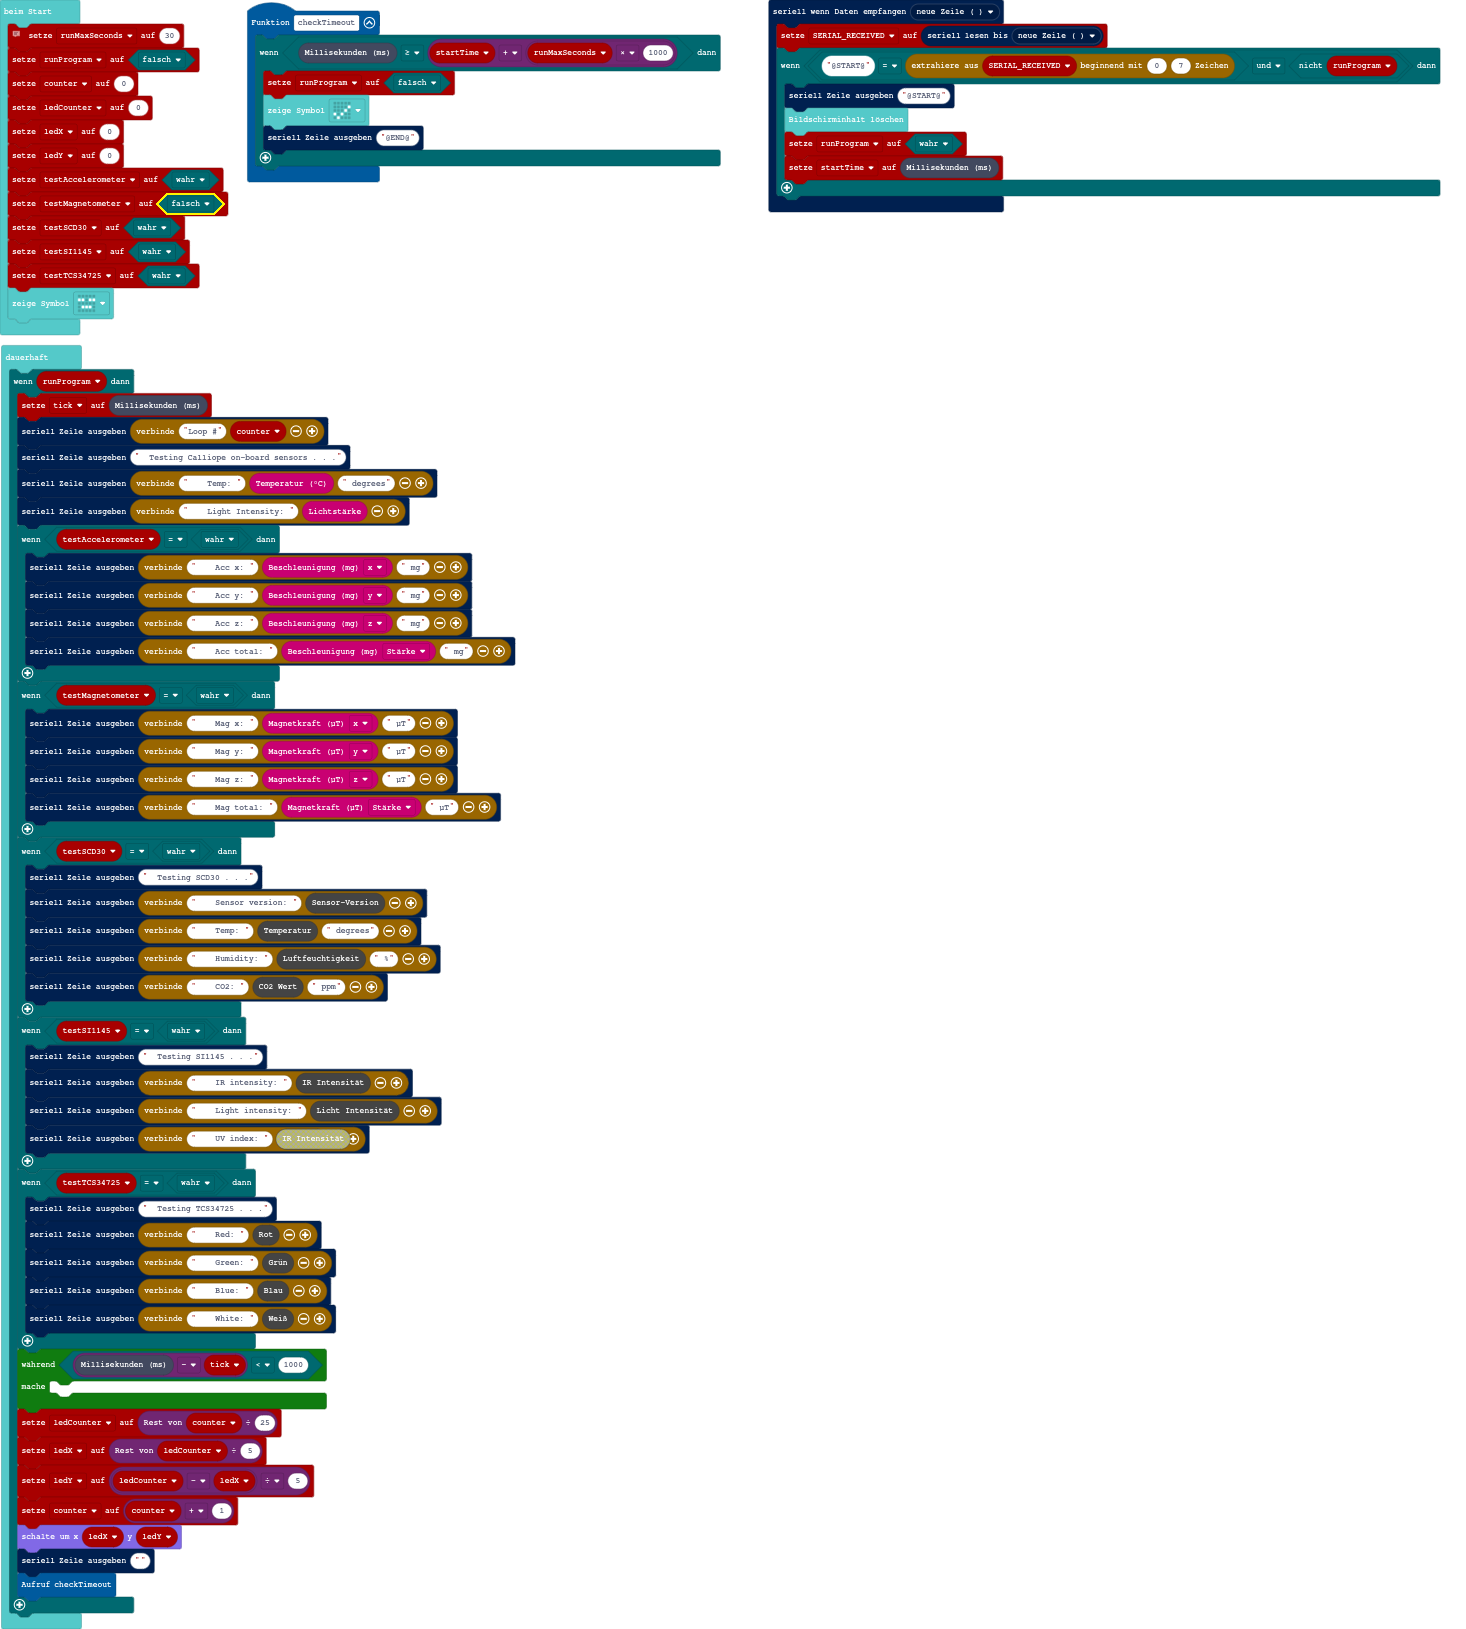
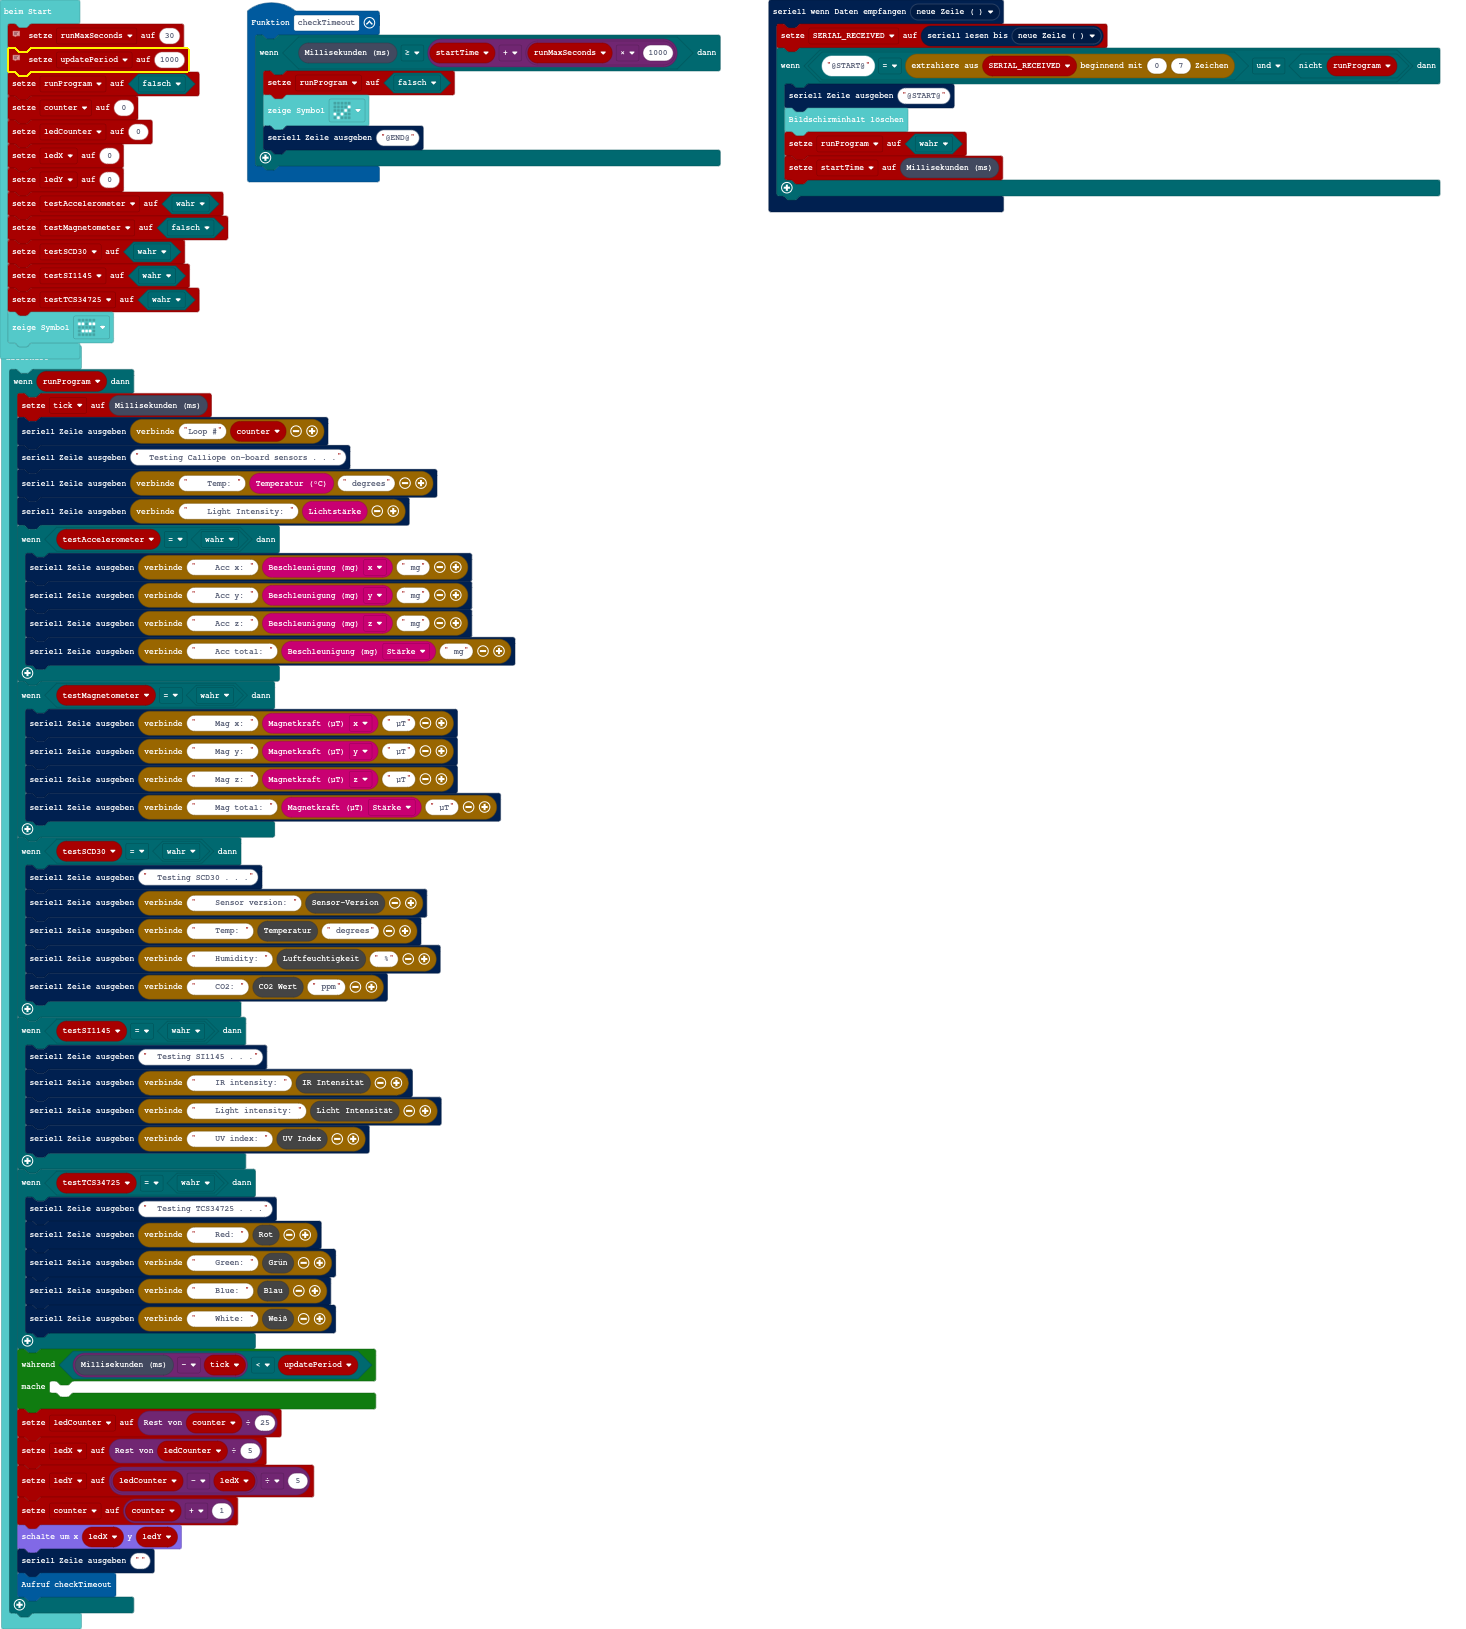
Update period/interval can be configured

Changed region(s): [[0.0, 0.0307, 0.1535, 0.2149], [0.1842, 0.8287, 0.2763, 0.8901], [0.1842, 0.6753, 0.2456, 0.706]]

diff --git a/main.ts b/main.ts
@@ -21,6 +21,8 @@ let runProgram = false
 let runMaxSeconds = 0
 // runMaxSeconds is the maximum time in seconds the program is allowed to run.
 runMaxSeconds = 30
+// Period to update measurements in ms. Should be higher than ~ 200 ms
+let updatePeriod = 1000
 runProgram = false
 let counter = 0
 let ledCounter = 0
@@ -71,7 +73,7 @@ basic.forever(function () {
             serial.writeLine("    Blue: " + TCS3414.readBlue())
             serial.writeLine("    White: " + TCS3414.readClear())
         }
-        while (control.millis() - tick < 1000) {
+        while (control.millis() - tick < updatePeriod) {
         	
         }
         ledCounter = counter % 25
